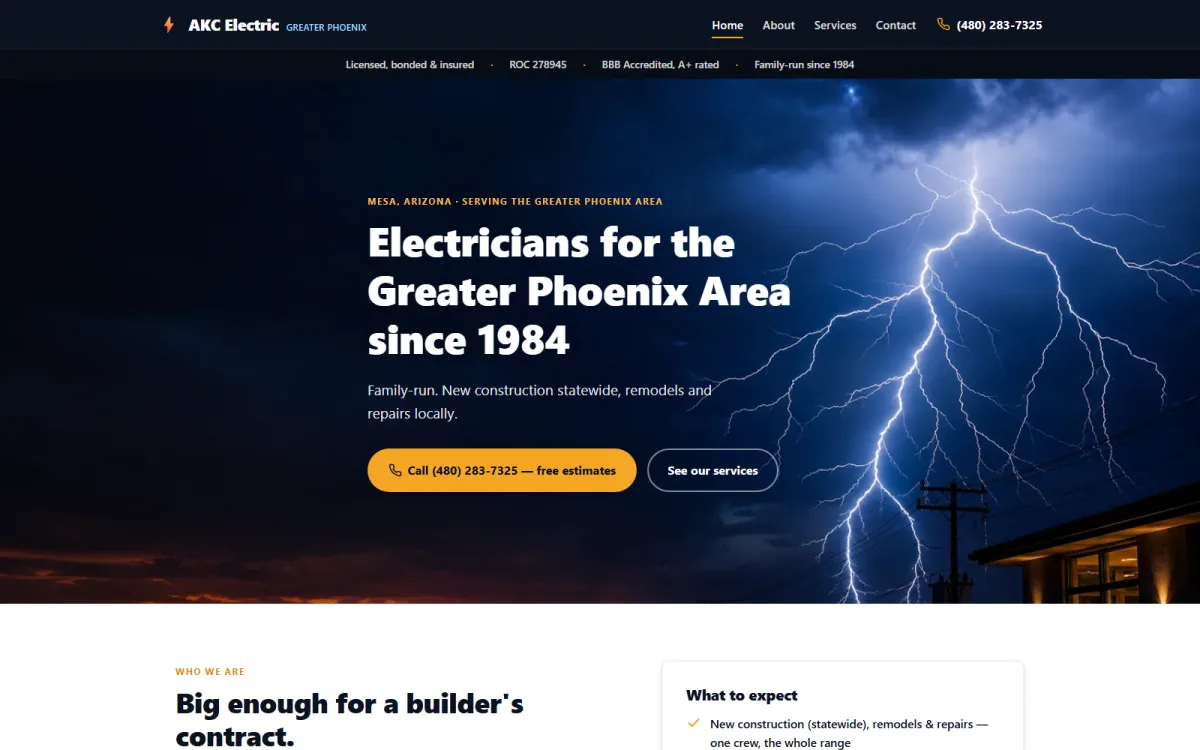
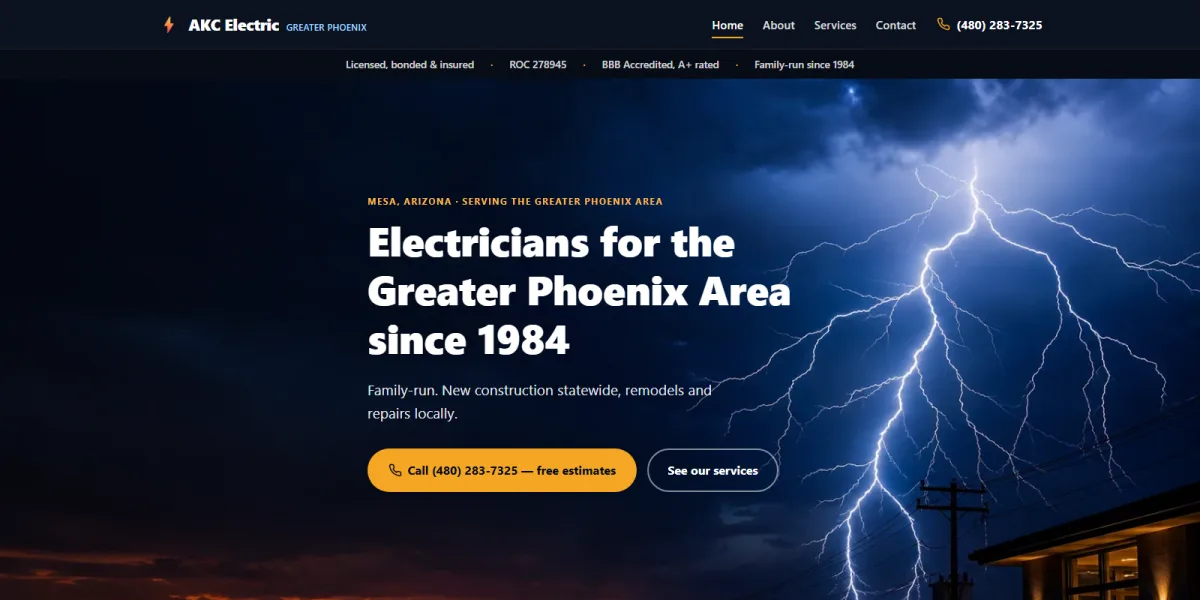
Fix AKC bento tile revealing content below the hero at mobile widths
The raw screenshot captured AKC's hero plus the start of their next
on-page section, which object-fit:cover exposed at mobile bento
proportions. Cropped the source to the hero only and regenerated the
optimized derivatives.

diff --git a/index.html b/index.html
@@ -82,7 +82,7 @@
                     img/portfolio-akc-electric-800w.webp   800w,
                     img/portfolio-akc-electric-1200w.webp 1200w"
             sizes="(max-width: 700px) 100vw, 40vw"
-            width="1600" height="1000"
+            width="1600" height="800"
             decoding="async"
             alt="AKC Electric website homepage, showing a lightning storm photo and the headline Electricians for the Greater Phoenix Area since 1984">
           <span class="bento-caption">
